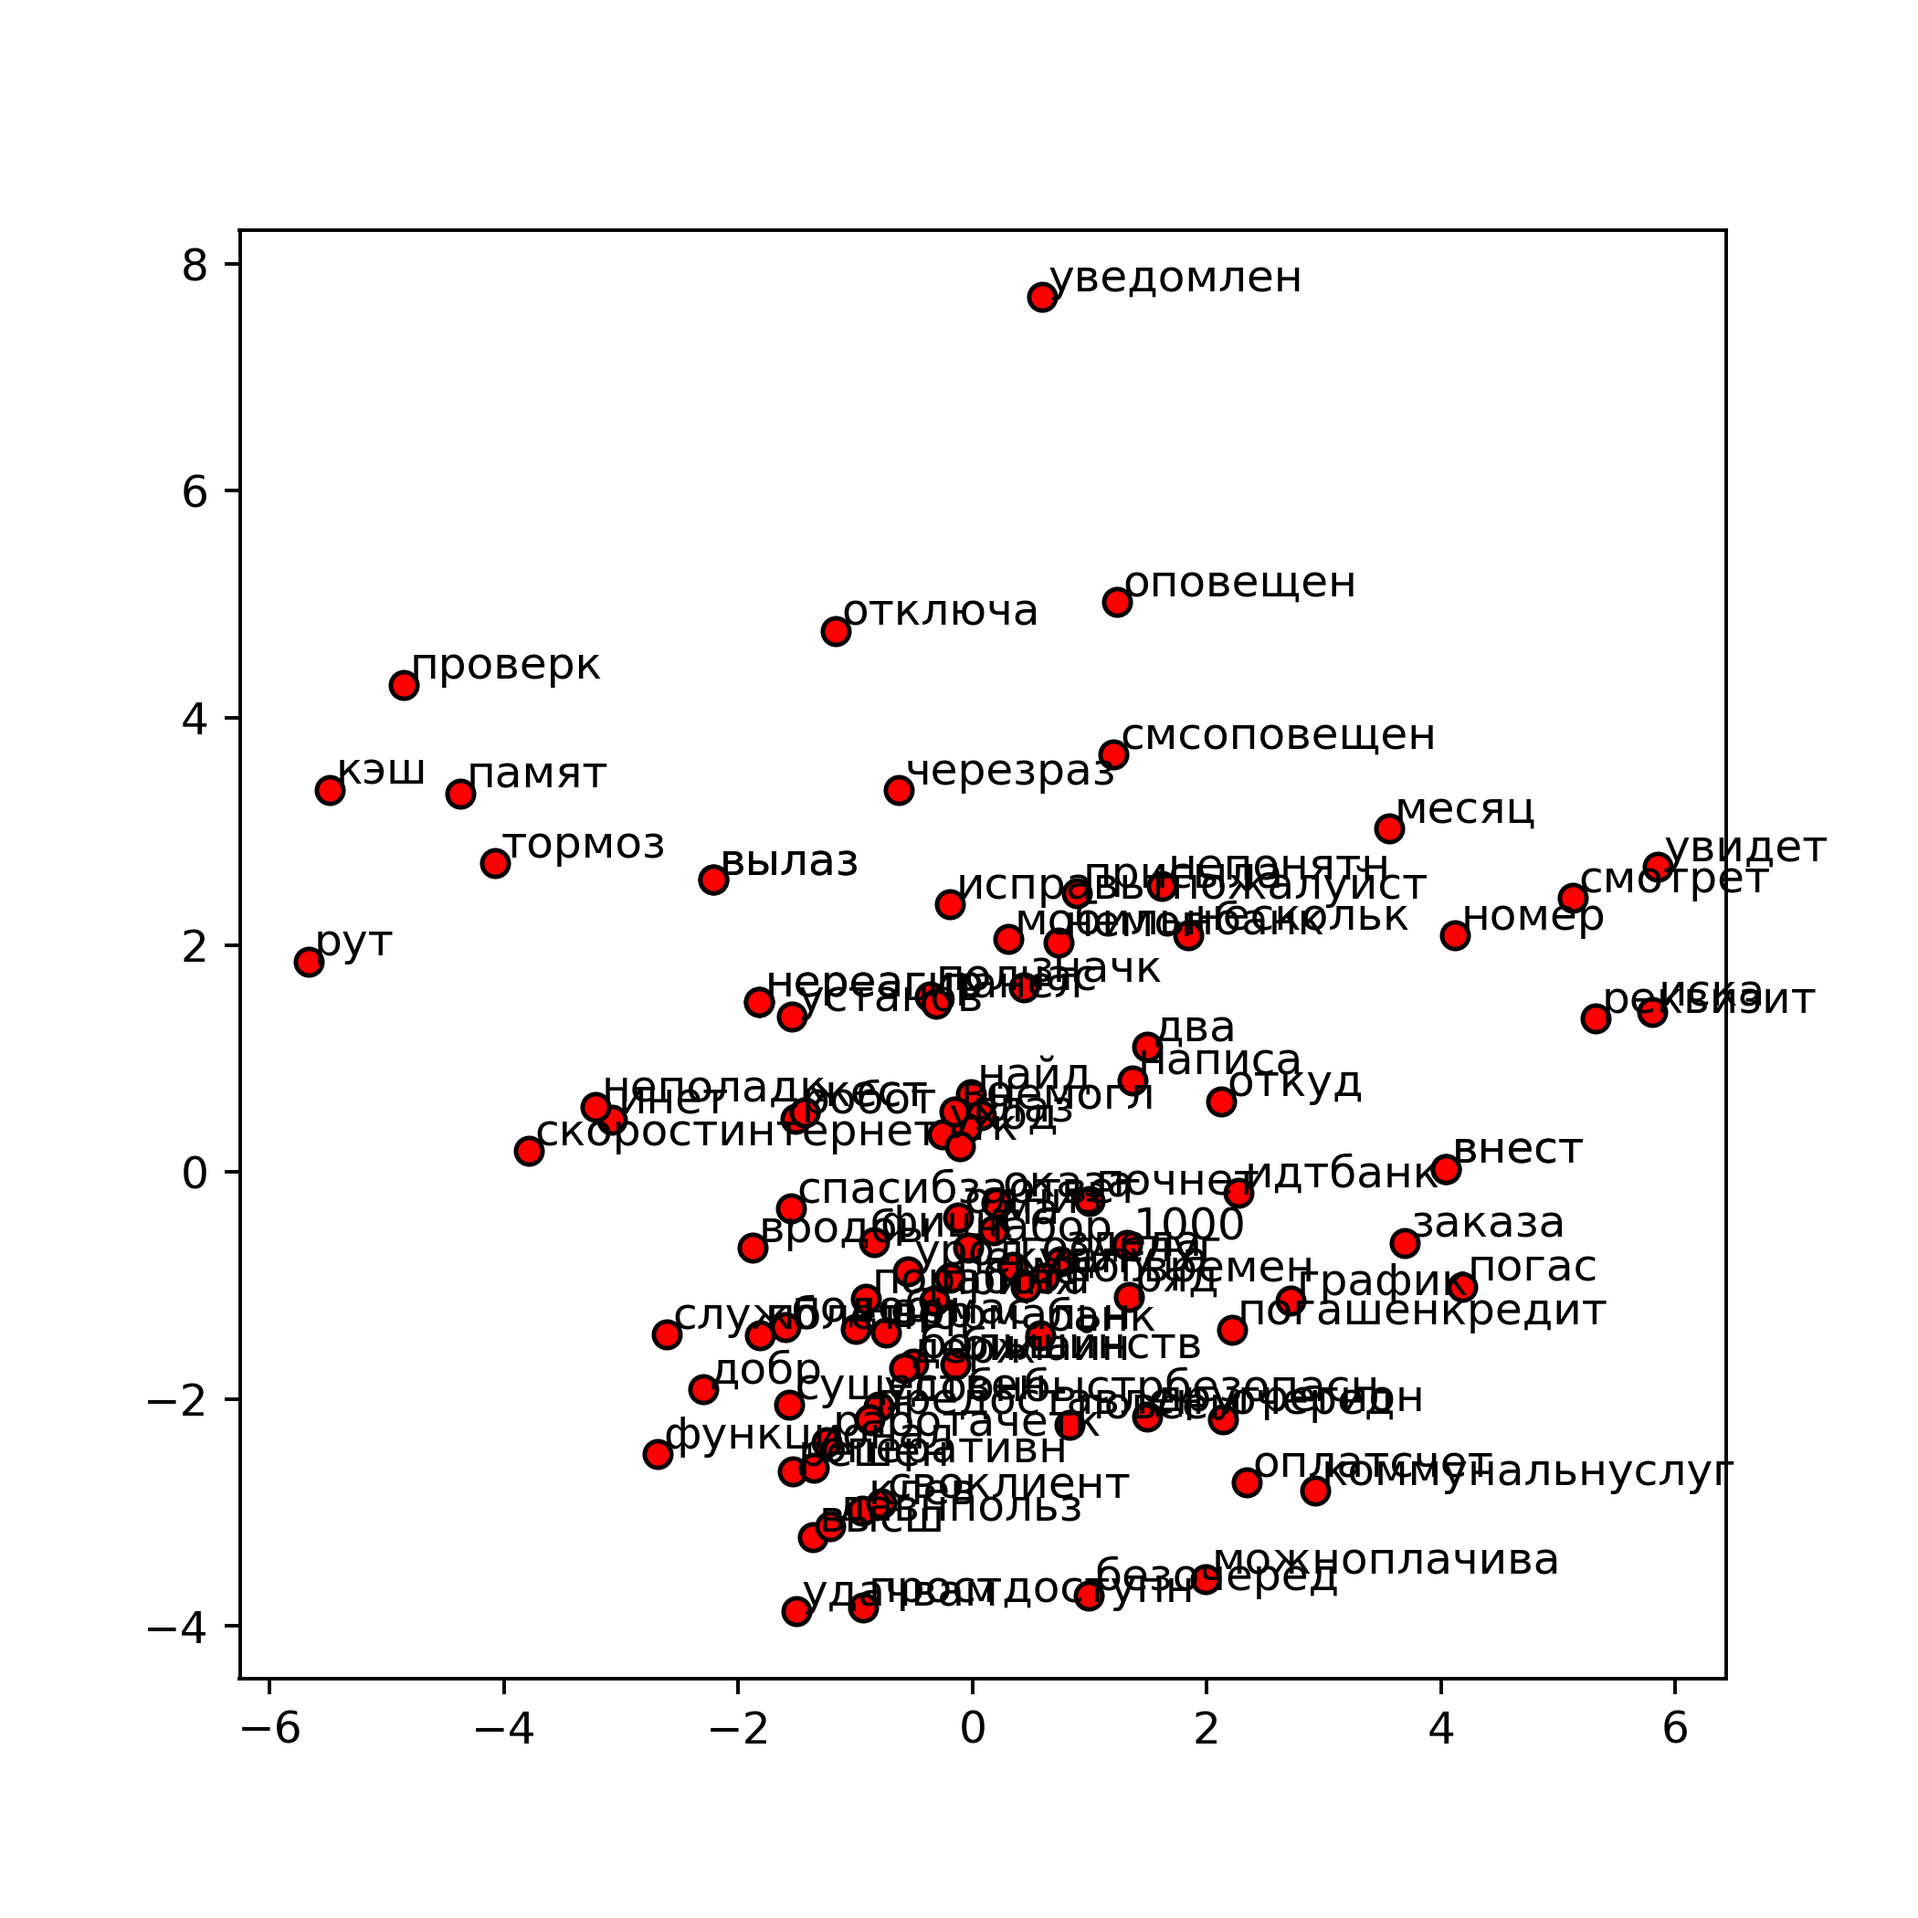
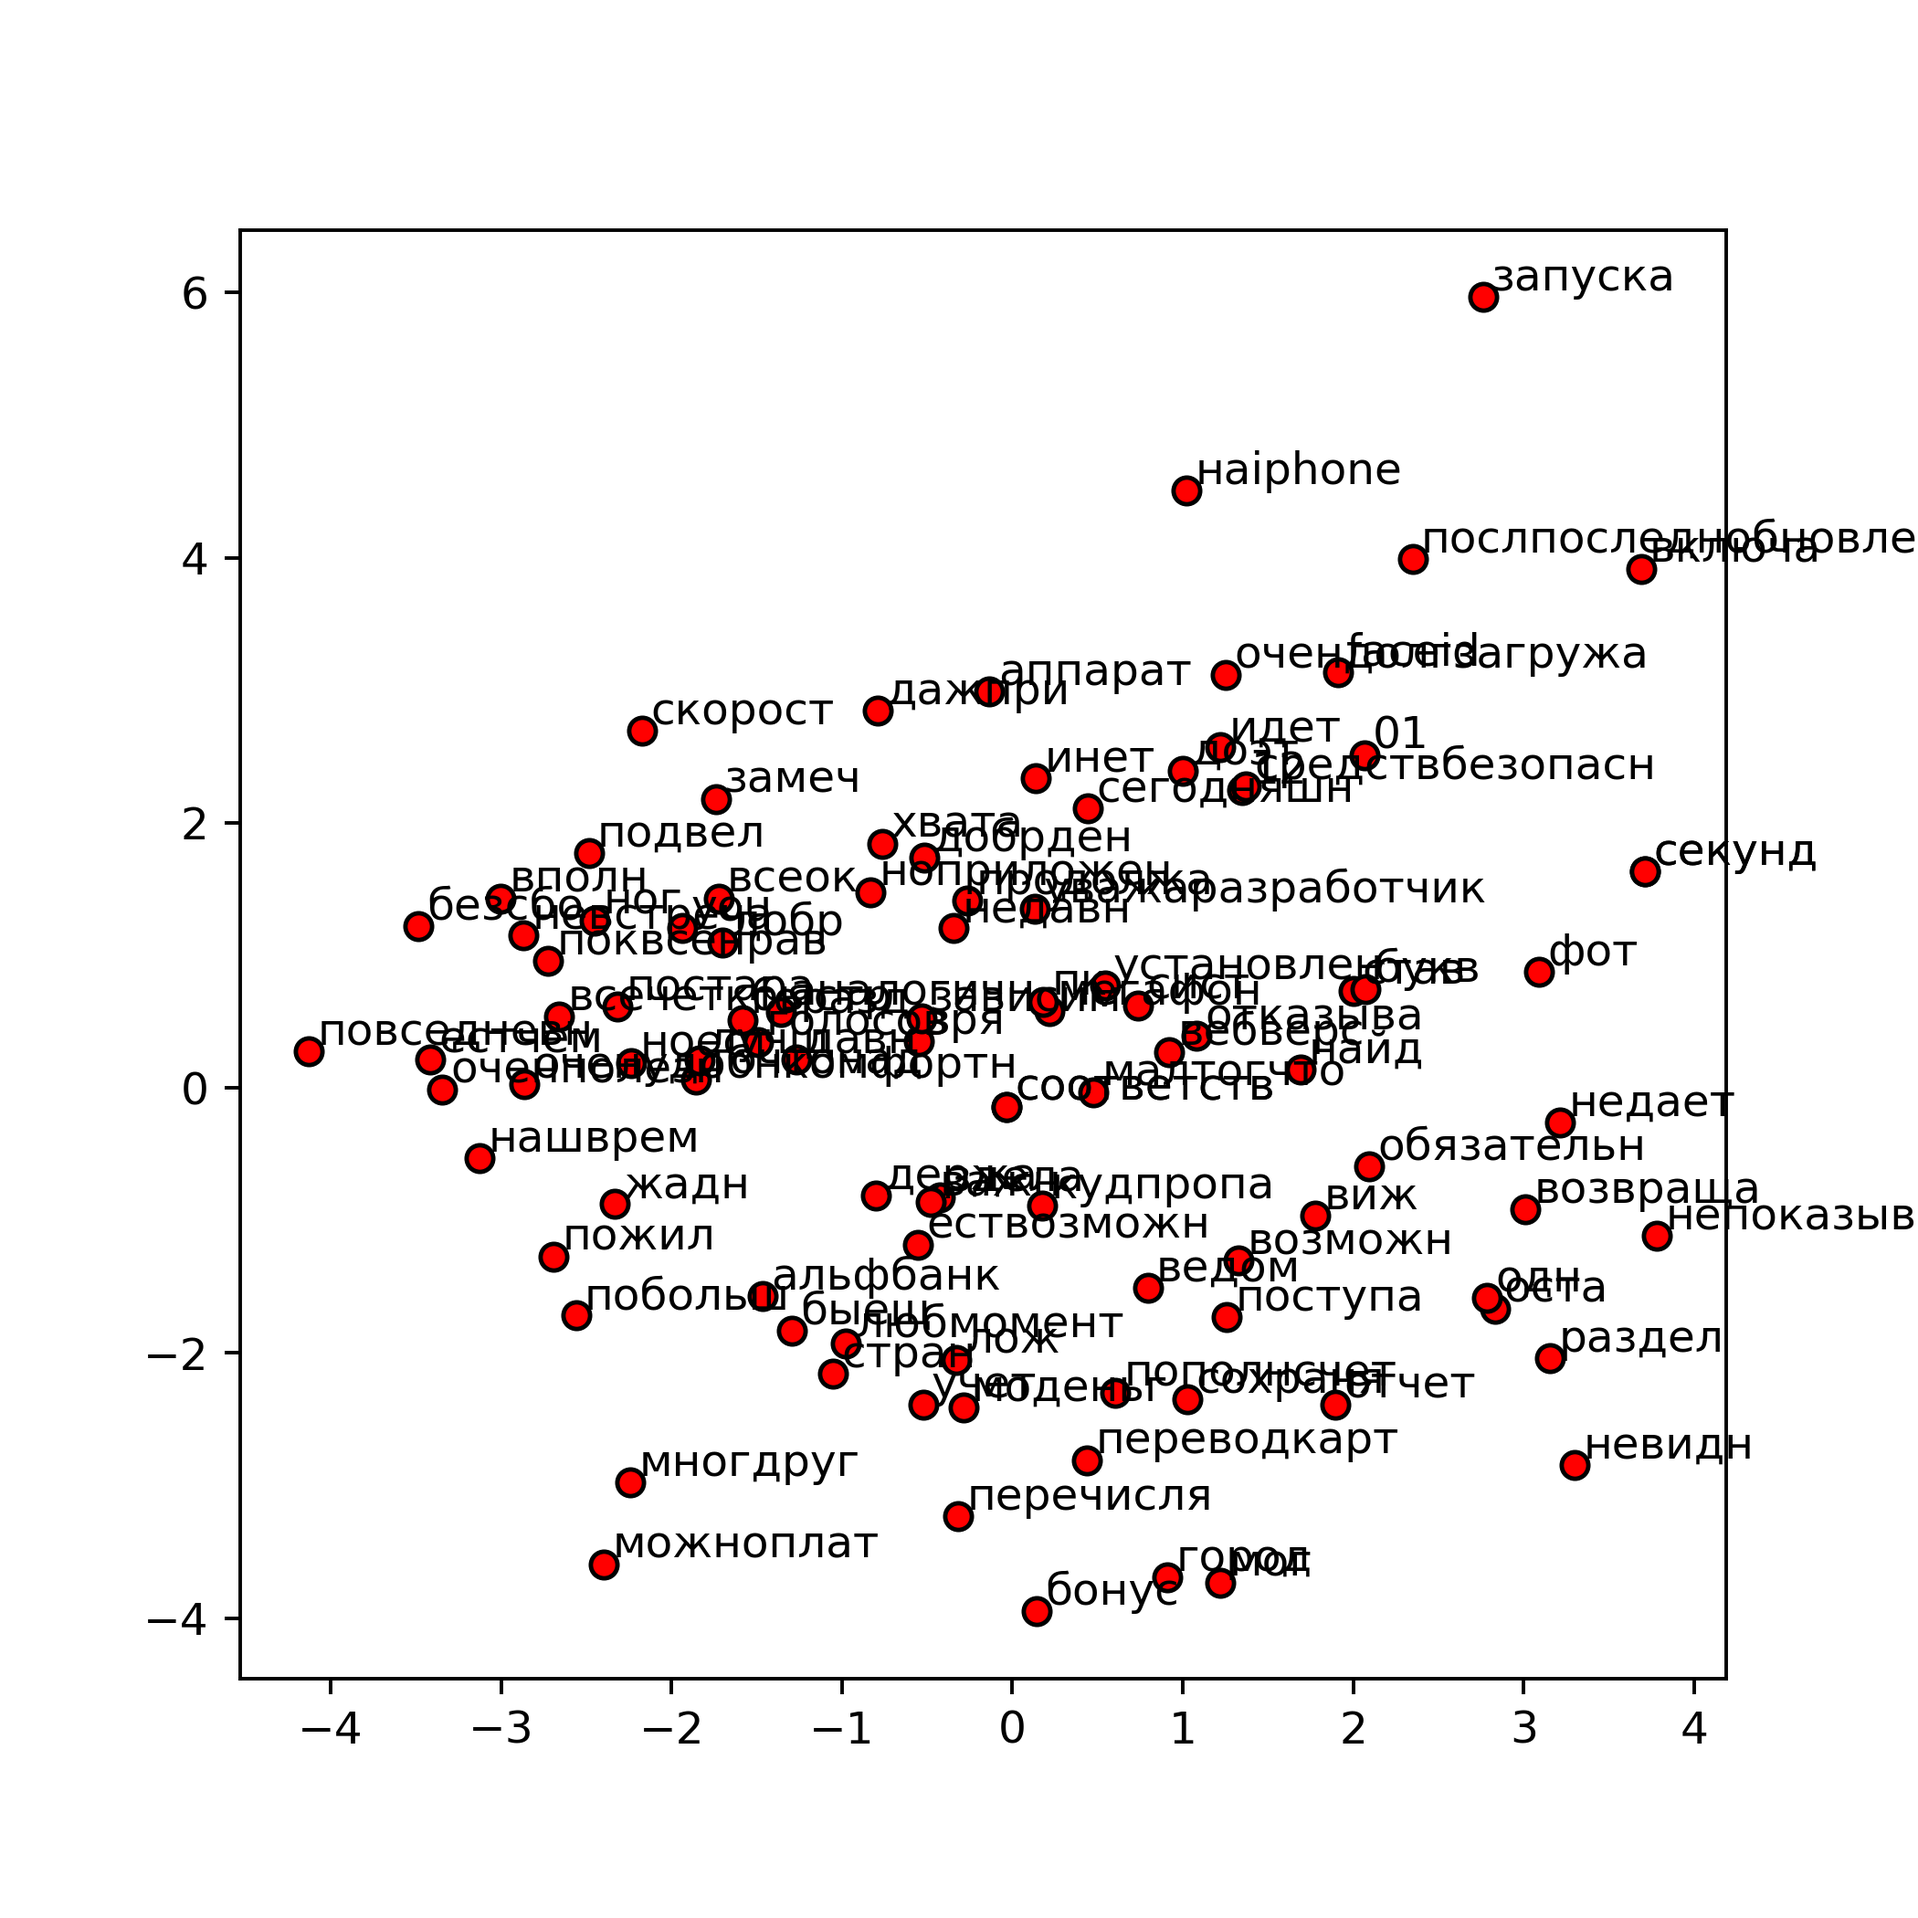
-

diff --git a/word2vec/word2vec.py b/word2vec/word2vec.py
@@ -11,9 +11,17 @@ with open('cleaned2984.txt', 'r', encoding = 'utf16') as f:
     lines = [line.rstrip().split() for line in f]
 
 
-model = Word2Vec(lines, size=32, window=5, min_count=1, workers=8, iter = 10)
+model = Word2Vec(lines, size=16, window=5, min_count=1, workers=8, iter = 10)
 
 model.save("word2vec 32 5 10.model")
+
+model = Word2Vec.load("word2vec 32 5 10.model")
+
+
+
+model.most_similar('кредит')
+
+
 
 
 
@@ -51,17 +59,22 @@ plt.show()
 
 
 
+# PCA
+
+word_vectors = np.array([model.wv[w] for w in vocab])
+twodim = PCA().fit_transform(word_vectors)[:,:2]
+
+
 def display_pca_scatterplot(model, words=None, sample=0):
     if sample > 0:
-        words = np.random.choice(words, sample)
+        chs = np.random.choice(range(len(words)), sample)
+        words = np.array(words)[chs]
+        two = twodim[chs,:]
         
-    word_vectors = np.array([model.wv[w] for w in words])
-
-    twodim = PCA().fit_transform(word_vectors)[:,:2]
     
     plt.figure(figsize=(6,6))
-    plt.scatter(twodim[:,0], twodim[:,1], edgecolors='k', c='r')
-    for word, (x,y) in zip(words, twodim):
+    plt.scatter(two[:,0], two[:,1], edgecolors='k', c='r')
+    for word, (x,y) in zip(words, two):
         plt.text(x+0.05, y+0.05, word)
     plt.savefig('pca.png', dpi = 350)
     plt.show()
